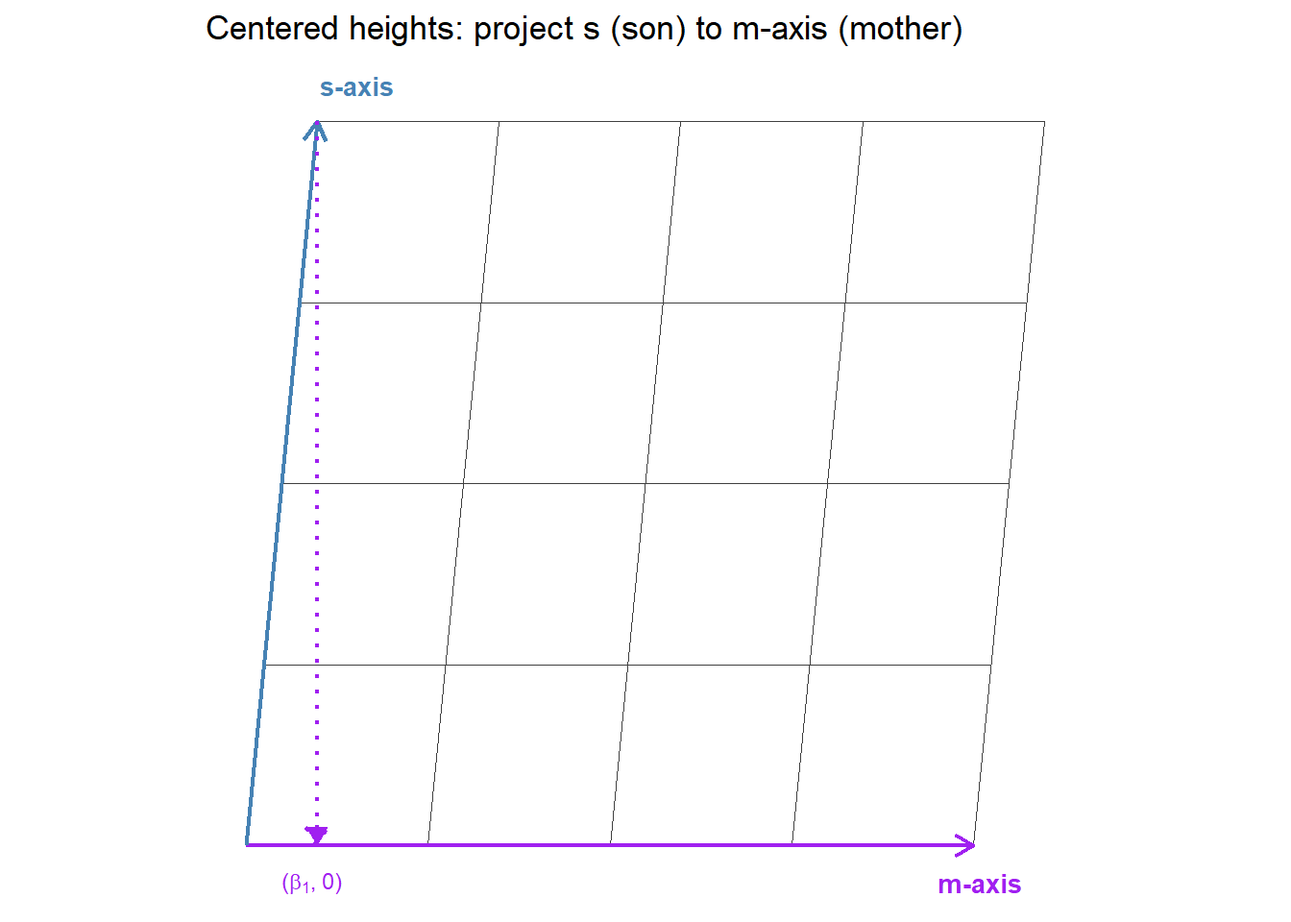
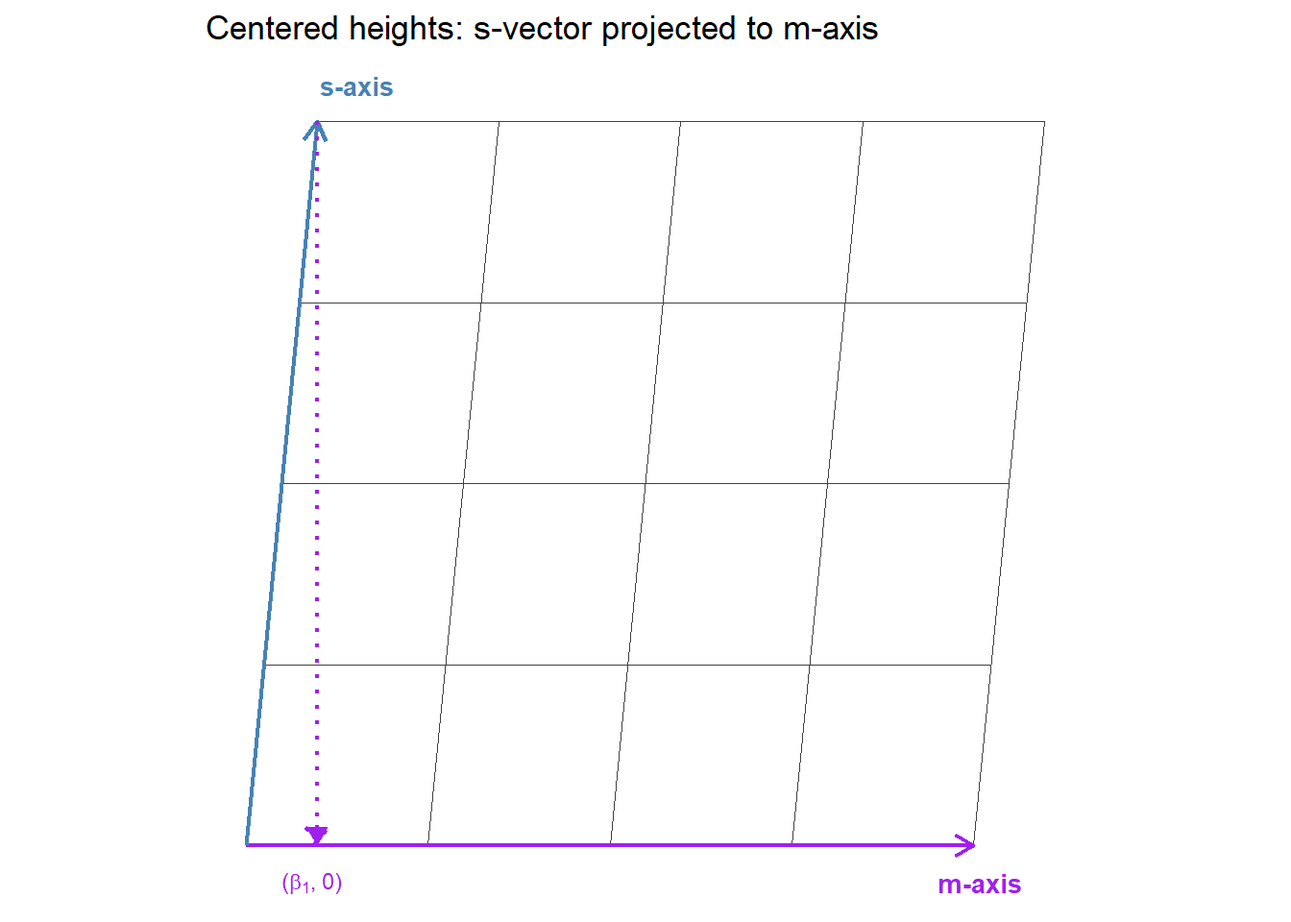
la-intro.qmd: (1) Notation: adopt the terms span(f_1, ..., f_d) or equivalently col(X); (2) Orthogonal Projections: for the height data use (mother, father, son) notation rather than the generic (X, y) notation; and (3) Col v Row Viz:  in the 2D son ~ mother regression figure, show the residuals as 

Changed region(s): [[0.375, 0.0, 0.75, 0.0625]]

diff --git a/_book/la-intro.html b/_book/la-intro.html
@@ -403,7 +403,7 @@ window.Quarto = {
     <div>
     <div class="quarto-title-meta-heading">Published</div>
     <div class="quarto-title-meta-contents">
-      <p class="date">00:59 Fri 31-Oct-2025</p>
+      <p class="date">11:53 Fri 31-Oct-2025</p>
     </div>
   </div>
   
@@ -1053,25 +1053,26 @@ Figure&nbsp;6.3: Example images of handwritten digits from the MNIST dataset
   \epsilon &amp;= \text{an } \textit{error} \text{ or } \textit{residual} \text{ term}
 \end{align}
 \qquad(6.20)\]</span></span></p>
-<p>Here’s the linear regression problem in matrix format for a given data set of specified dimensions.</p>
+<p>Here’s the linear regression model in matrix format for a given feature matrix of specified dimensions.</p>
 <p><span id="eq-generic-lm-mat"><span class="math display">\[
 \begin{align}
   y_\bullet &amp;= X_{\bullet, \bullet} \; \beta_\bullet \; + \; \epsilon_\bullet
 \end{align}
 \qquad(6.21)\]</span></span></p>
-<p>Let <span class="math inline">\(n\)</span> denote the number of observations (data cases), in other words the number of rows in feature matrix <span class="math inline">\(X_{\bullet, \bullet}\)</span> and in the column vectors <span class="math inline">\((y_\bullet, \epsilon_\bullet)\)</span>. And let <span class="math inline">\(d\)</span> denote the number of columns in <span class="math inline">\(X_{\bullet, \bullet}\)</span> and the number of rows in column-vector <span class="math inline">\(\beta_\bullet\)</span>. Let us also delineate the columns of <span class="math inline">\(X_{\bullet, \bullet}\)</span>, the “feature vectors”, as follows.</p>
+<p>Let the dimensions of <span class="math inline">\(X_{\bullet, \bullet}\)</span> be given as <span class="math inline">\(n\)</span> rows by <span class="math inline">\(d\)</span> columns. Then the column vectors <span class="math inline">\((y_\bullet, \epsilon_\bullet)\)</span> are each of length <span class="math inline">\(n\)</span>, and the number of rows in column-vector <span class="math inline">\(\beta_\bullet\)</span> is <span class="math inline">\(d\)</span>. Let us also delineate the columns of <span class="math inline">\(X_{\bullet, \bullet}\)</span>, the “feature vectors”, as follows.</p>
 <p><span id="eq-generic-feature-cols"><span class="math display">\[
 \begin{align}
   X_{\bullet, \bullet} &amp;= \left ( f_{1, \bullet}, \ldots, f_{d, \bullet} \right )
 \end{align}
 \qquad(6.22)\]</span></span></p>
-<p>The feature vectors <span class="math inline">\(\{ f_{k, \bullet} \}_{k = 1}^d\)</span> span some subspace, “feature space”, within <span class="math inline">\(n-\)</span>space. Thus the mapping <span class="math inline">\(\beta_\bullet \mapsto X_{\bullet, \bullet} \; \beta_\bullet\)</span> sends a vector of coefficients <span class="math inline">\(\beta_\bullet\)</span> to the following linear combination within the feature subspace.</p>
+<p>The <span class="math inline">\(n-\)</span>dimensional feature vectors <span class="math inline">\(\{ f_{k, \bullet} \}_{k = 1}^d\)</span> span a subspace, “feature space”, within <span class="math inline">\(n-\)</span>space, denoted <span class="math inline">\(span(f_{1, \bullet}, \ldots, f_{d, \bullet})\)</span>. Since this is the subspace generated by the columns of matrix <span class="math inline">\(X_{\bullet, \bullet}\)</span>, the subspace is also denoted as <span class="math inline">\(col(X_{\bullet, \bullet})\)</span>. <a href="#fn10" class="footnote-ref" id="fnref10" role="doc-noteref"><sup>10</sup></a></p>
+<p>The mapping <span class="math inline">\(\beta_\bullet \mapsto X_{\bullet, \bullet} \; \beta_\bullet\)</span> sends a vector of coefficients <span class="math inline">\(\beta_\bullet\)</span> to the following linear combination within the feature subspace.</p>
 <p><span id="eq-generic-feature-lin-combo"><span class="math display">\[
 \begin{align}
-  \beta_1 \; f_{1, \bullet} \; + \; \cdots \; + \; \beta_d \; f_{d, \bullet}
+  X_{\bullet, \bullet} \; \beta_\bullet &amp;=\beta_1 \; f_{1, \bullet} \; + \; \cdots \; + \; \beta_d \; f_{d, \bullet}
 \end{align}
 \qquad(6.23)\]</span></span></p>
-<p>As for the dimension of the feature subspace, it can be no greater than <span class="math inline">\(n\)</span>, the dimension of the space containing each feature vector, nor can it be greater than <span class="math inline">\(d\)</span>, the number of feature vectors. If the feature vectors are linearly independent (as they typically are) then this subspace is of dimension <span class="math inline">\(d\)</span>. If the feature vectors are not linearly independent (for example, if <span class="math inline">\(d &gt; n\)</span>) then the feature subspace is of some smaller dimension.</p>
+<p>The dimension of the feature subspace is called the <em>rank</em> of <span class="math inline">\(X_{\bullet, \bullet}\)</span>, denoted <span class="math inline">\(rank(X_{\bullet, \bullet})\)</span>. The rank can be no greater than <span class="math inline">\(n\)</span>, the dimension of the space containing each feature vector, nor can it be greater than <span class="math inline">\(d\)</span>, the number of feature vectors. If the feature vectors are linearly independent then this subspace is of dimension <span class="math inline">\(d\)</span>. If the feature vectors are not linearly independent (for example, if <span class="math inline">\(d &gt; n\)</span>) then the feature subspace is of some smaller dimension.</p>
 <p>This linear regression format follows the more general mathematical notation <span class="math inline">\(y = f(x)\)</span>. In data science and machine learning, however, the response variable <span class="math inline">\(y\)</span> and the feature matrix <span class="math inline">\(X\)</span> have known values, whereas <span class="math inline">\(\beta\)</span> and <span class="math inline">\(\epsilon\)</span> are <em>fit</em> (determined or evaluated based on <span class="math inline">\(y\)</span> and <span class="math inline">\(X\)</span>) over the course of the modeling process.</p>
 <p>In the data examples of the preceding section, the response variable took the following form.</p>
 <ul>
@@ -1173,7 +1174,7 @@ Figure&nbsp;6.3: Example images of handwritten digits from the MNIST dataset
   \delta (m_1, m_3) &amp;\le \delta (m_1, m_2) \; + \; \delta (m_2, m_3)
 \end{align}
 \qquad(6.33)\]</span></span></p>
-<p>Hamming distance and Levenshtein distance are important examples of metrics used in natural language processing (NLP) that are not based on a vector norm. <a href="#fn10" class="footnote-ref" id="fnref10" role="doc-noteref"><sup>10</sup></a></p>
+<p>Hamming distance and Levenshtein distance are important examples of metrics used in natural language processing (NLP) that are not based on a vector norm. <a href="#fn11" class="footnote-ref" id="fnref11" role="doc-noteref"><sup>11</sup></a></p>
 </section>
 </section>
 <section id="family-heights" class="level3" data-number="6.3.2">
@@ -1200,7 +1201,7 @@ Figure&nbsp;6.3: Example images of handwritten digits from the MNIST dataset
   \epsilon_\bullet &amp;= \text{residual vector}
 \end{align}
 \qquad(6.35)\]</span></span></p>
-<p>Consider the least-squares estimate <span class="math inline">\(\hat{\beta}_\bullet\)</span> and the consequent predicted height <span class="math inline">\(\hat{y}_\bullet = X_{_\bullet, _\bullet} \hat{\beta}_\bullet\)</span> of the son. <a href="#fig-smf-smpl" class="quarto-xref">Figure&nbsp;<span>6.4</span></a> is based on a random sample of 20 families and shows the heights of sons on the vertical axis, along with their vertical displacement (residual) from the predicted value lying on the <em>regression plane</em>. <a href="#fn11" class="footnote-ref" id="fnref11" role="doc-noteref"><sup>11</sup></a></p>
+<p>Consider the least-squares estimate <span class="math inline">\(\hat{\beta}_\bullet\)</span> and the consequent predicted height <span class="math inline">\(\hat{y}_\bullet = X_{_\bullet, _\bullet} \hat{\beta}_\bullet\)</span> of the son. <a href="#fig-smf-smpl" class="quarto-xref">Figure&nbsp;<span>6.4</span></a> is based on a random sample of 20 families and shows the heights of sons on the vertical axis, along with their vertical displacement (residual) from the predicted value lying on the <em>regression plane</em>. <a href="#fn12" class="footnote-ref" id="fnref12" role="doc-noteref"><sup>12</sup></a></p>
 <div class="cell">
 <div class="cell-output-display">
 <div id="fig-smf-smpl" class="quarto-float quarto-figure quarto-figure-center anchored">
@@ -1220,7 +1221,7 @@ Figure&nbsp;6.4: Sampled son heights: residual = observed - predicted
 </section>
 <section id="centering-data-vectors" class="level3" data-number="6.3.3">
 <h3 data-number="6.3.3" class="anchored" data-anchor-id="centering-data-vectors"><span class="header-section-number">6.3.3</span> Centering Data Vectors</h3>
-<p>The regression plane that we glimpse in <a href="#fig-smf-smpl" class="quarto-xref">Figure&nbsp;<span>6.4</span></a> actually spans all the <span class="math inline">\((m, f)\)</span> combinations that are mathematically possible. If we imagine infinitesimally short parents with <span class="math inline">\((m, f) = (0, 0)\)</span>, the predicted height of their son would be <span class="math inline">\(\hat{\beta}_0\)</span>, which is not zero. That is, the plane does not pass through the origin <span class="math inline">\((0, 0, 0)\)</span> and therefore does not qualify as a subspace of <span class="math inline">\((m, f, s)\)</span> space. <a href="#fn12" class="footnote-ref" id="fnref12" role="doc-noteref"><sup>12</sup></a> But the regression plane determines a parallel subspace (that <em>does</em> pass through the origin).</p>
+<p>The regression plane that we glimpse in <a href="#fig-smf-smpl" class="quarto-xref">Figure&nbsp;<span>6.4</span></a> actually spans all the <span class="math inline">\((m, f)\)</span> combinations that are mathematically possible. If we imagine infinitesimally short parents with <span class="math inline">\((m, f) = (0, 0)\)</span>, the predicted height of their son would be <span class="math inline">\(\hat{\beta}_0\)</span>, which is not zero. That is, the plane does not pass through the origin <span class="math inline">\((0, 0, 0)\)</span> and therefore does not qualify as a subspace of <span class="math inline">\((m, f, s)\)</span> space. <a href="#fn13" class="footnote-ref" id="fnref13" role="doc-noteref"><sup>13</sup></a> But the regression plane determines a parallel subspace (that <em>does</em> pass through the origin).</p>
 <p>The concept of a subspace is central to linear algebra. Therefore determining the subspace parallel to the regression plane will enable us to apply linear algebra methods to better understand linear regression.</p>
 <p>One way to generate this subspace is to center each of the <span class="math inline">\((m_i, f_i, s_i)\)</span> data values, that is, to replace data value <span class="math inline">\(v_i\)</span> with its centered version <span class="math inline">\(\dot{v}_i = v_i - \bar{v}\)</span>, where <span class="math inline">\(\bar{v}\)</span> denotes the average value (arithmetic mean) of vector <span class="math inline">\(v_\bullet\)</span>.</p>
 <p>In vector-matrix notation we have</p>
@@ -1347,7 +1348,7 @@ Figure&nbsp;6.5: Centered family heights
   &amp;= X_{\bullet, \bullet}^\top \; y_\bullet
 \end{align}
 \qquad(6.45)\]</span></span></p>
-<p>On the left side of the normal equations we have the matrix factor <span class="math inline">\(\left ( X_{\bullet, \bullet}^\top X_{\bullet, \bullet}  \right )\)</span>. For the centered heights data this matrix factor is a multiple of the (mother, father) covariance matrix, a <span class="math inline">\(2 \times 2\)</span> positive-definite matrix, and thus an invertible matrix. Assuming this matrix factor to be invertible, we can solve for <span class="math inline">\(\hat{\beta}_\bullet\)</span> as follows.</p>
+<p>On the left side of the normal equations we have the matrix factor <span class="math inline">\(\left ( X_{\bullet, \bullet}^\top X_{\bullet, \bullet}  \right )\)</span>. For the centered heights data this matrix factor is proportional to the (mother, father) covariance matrix, a <span class="math inline">\(2 \times 2\)</span> positive-definite matrix, and thus an invertible matrix. If this matrix factor is invertible, one can solve for <span class="math inline">\(\hat{\beta}_\bullet\)</span> as follows.</p>
 <p><span id="eq-generic-lm-beta-hat"><span class="math display">\[
 \begin{align}
   \hat{\beta}_\bullet
@@ -1365,21 +1366,20 @@ Figure&nbsp;6.5: Centered family heights
 </section>
 <section id="orthogonal-projections" class="level3" data-number="6.3.5">
 <h3 data-number="6.3.5" class="anchored" data-anchor-id="orthogonal-projections"><span class="header-section-number">6.3.5</span> Orthogonal Projections</h3>
-<p>For any value of the coefficient vector <span class="math inline">\(\beta_\bullet\)</span>, the mapping <span class="math inline">\(\beta_\bullet \mapsto X_{\bullet, \bullet} \beta_\bullet\)</span> sends <span class="math inline">\(\beta_\bullet\)</span> to the linear combination <span class="math inline">\(\beta_1 \; \dot{m}_\bullet \; + \; \beta_2 \; \dot{f}_\bullet\)</span>, which belongs to a 2-dimensional subspace of <span class="math inline">\(n-\)</span>space <a href="#fn13" class="footnote-ref" id="fnref13" role="doc-noteref"><sup>13</sup></a>, where <span class="math inline">\(n\)</span> denotes the number of data cases, i.e., the row dimension of <span class="math inline">\(X_{\bullet, \bullet}\)</span>. This 2-dimensional subspace (let’s say the “parental” subspace) is spanned by the two <span class="math inline">\(n-\)</span>vectors <span class="math inline">\((\dot{m}_\bullet, \dot{f}_\bullet)\)</span>, the centered vectors of (mother, father) heights.</p>
-<p>The particular coefficient vector <span class="math inline">\(\hat{\beta}_\bullet\)</span> obtained by least squares linear regression produces the linear mapping of <a href="#eq-generic-lm-y-hat" class="quarto-xref">Equation&nbsp;<span>6.47</span></a>:</p>
+<p>As previously noted (<a href="#eq-generic-feature-lin-combo" class="quarto-xref">Equation&nbsp;<span>6.23</span></a>), the mapping <span class="math inline">\(\beta_\bullet \mapsto X_{\bullet, \bullet} \beta_\bullet\)</span> sends coefficient vector <span class="math inline">\(\beta_\bullet\)</span> to a linear combination of the feature vectors, and thus a vector within the feature subspace. The particular coefficient vector <span class="math inline">\(\hat{\beta}_\bullet\)</span> obtained by least squares linear regression produces the linear mapping of <a href="#eq-generic-lm-y-hat" class="quarto-xref">Equation&nbsp;<span>6.47</span></a>:</p>
 <p><span id="eq-lin-reg-projection"><span class="math display">\[
 \begin{align}
   \hat{y}_\bullet &amp;= P \; y_\bullet
 \end{align}
 \qquad(6.48)\]</span></span></p>
-<p>For the centered heights data, this mapping sends the centered heights of sons <span class="math inline">\(\dot{s}_\bullet\)</span> to their corresponding linear prediction <span class="math inline">\(\hat{\dot{s}}_\bullet = P \; \dot{s}_\bullet\)</span>. For the generic regression problem <span class="math inline">\(P\)</span> is the following matrix.</p>
+<p>where <span class="math inline">\(P\)</span> is the following matrix.</p>
 <p><span id="eq-lin-reg-projection-mat"><span class="math display">\[
 \begin{align}
   P
   &amp;= X_{\bullet, \bullet} \left ( X_{\bullet, \bullet}^\top X_{\bullet, \bullet}  \right )^{-1} X_{\bullet, \bullet}^\top
 \end{align}
 \qquad(6.49)\]</span></span></p>
-<p>Matrix <span class="math inline">\(P\)</span> is idempotent and symmetric, that is, both the square <span class="math inline">\(P^2\)</span> and the transpose <span class="math inline">\(P^\top\)</span> equal <span class="math inline">\(P\)</span>.</p>
+<p>Matrix <span class="math inline">\(P\)</span> is idempotent and symmetric, that is, both its square <span class="math inline">\(P^2\)</span> and its transpose <span class="math inline">\(P^\top\)</span> equal <span class="math inline">\(P\)</span> itself.</p>
 <p><span id="eq-projection-properties"><span class="math display">\[
 \begin{align}
   P^2
@@ -1395,8 +1395,8 @@ Figure&nbsp;6.5: Centered family heights
 \qquad(6.50)\]</span></span></p>
 <p>If matrix <span class="math inline">\(M\)</span> is idempotent, that is, if <span class="math inline">\(M^2 = M\)</span>, then <span class="math inline">\(M\)</span> represents a <em>projection</em>. Repeated applications of <span class="math inline">\(M\)</span> to vector <span class="math inline">\(v\)</span> return the initial application, i.e., <span class="math inline">\(M^k v = Mv\)</span> for any positive integer <span class="math inline">\(k\)</span>.</p>
 <p>If in addition matrix <span class="math inline">\(M\)</span> is symmetric, that is, if <span class="math inline">\(M^\top = M\)</span>, then <span class="math inline">\(M\)</span> represents an <em>orthogonal projection</em>. In this case the complement of <span class="math inline">\(M\)</span>, <span class="math inline">\(I - M\)</span>, also qualifies as an orthogonal projection and the product of the two matrices is the zero matrix.</p>
-<p>Consequently, any vector <span class="math inline">\(v\)</span> can be expressed as the sum of two vectors <span class="math inline">\(v = x + y\)</span>, with <span class="math inline">\(x = M v\)</span> and <span class="math inline">\(y = (I-M) v\)</span>. Vector <span class="math inline">\(x\)</span> belongs to the subspace generated by <span class="math inline">\(M\)</span>, which is called the <em>range</em> of <span class="math inline">\(M\)</span>, denoted as <span class="math inline">\(\mathcal{R} (M)\)</span>. Similarly <span class="math inline">\(y \in \mathcal{R} (I - M)\)</span>. Moreover, these two vectors are orthogonal: <span class="math inline">\((x^\top y = y^\top x = 0)\)</span>. That is, subspace <span class="math inline">\(\mathcal{R} (I - M)\)</span> is the orthogonal complement of subspace <span class="math inline">\(\mathcal{R} (M)\)</span>.</p>
-<p>Let’s apply these ideas to matrix <span class="math inline">\(P\)</span>. First, we have shown that matrix <span class="math inline">\(P\)</span> represents an orthogonal projection. On closer inspection, we can show that the subspace generated by <span class="math inline">\(P\)</span>, <span class="math inline">\(\mathcal{R} (P)\)</span>, is the parental subspace. That is, for any vector <span class="math inline">\(v_\bullet\)</span> we have:</p>
+<p>Consequently, any vector <span class="math inline">\(v\)</span> can be expressed as the sum of two vectors <span class="math inline">\(v = x + y\)</span>, with <span class="math inline">\(x = M v\)</span> and <span class="math inline">\(y = (I-M) v\)</span>. Vector <span class="math inline">\(x\)</span> belongs to the subspace spanned by the columns of <span class="math inline">\(M\)</span>, which is called the <em>image</em> or <em>column-space</em> of <span class="math inline">\(M\)</span>, denoted as <span class="math inline">\(col (M)\)</span>. Similarly <span class="math inline">\(y \in col (I - M)\)</span>. Moreover, these two vectors are orthogonal: <span class="math inline">\((x^\top y = y^\top x = 0)\)</span>. That is, subspace <span class="math inline">\(col (I - M)\)</span> is the orthogonal complement of subspace <span class="math inline">\(col (M)\)</span>.</p>
+<p>Let’s apply these ideas to matrix <span class="math inline">\(P\)</span>. First, we have shown that matrix <span class="math inline">\(P\)</span> represents an orthogonal projection. On closer inspection, we can show that the subspace generated by <span class="math inline">\(P\)</span>, <span class="math inline">\(col (P)\)</span>, is the feature subspace. That is, for any vector <span class="math inline">\(v_\bullet\)</span> we have:</p>
 <p><span id="eq-parental-projection"><span class="math display">\[
 \begin{align}
   P \; v_\bullet &amp;= X_{\bullet, \bullet} \left ( X_{\bullet, \bullet}^\top X_{\bullet, \bullet}  \right )^{-1} X_{\bullet, \bullet}^\top \; v_\bullet \\
@@ -1410,7 +1410,7 @@ Figure&nbsp;6.5: Centered family heights
   &amp;= X_{\bullet, \bullet} \; \gamma_\bullet (v_\bullet)
 \end{align}
 \qquad(6.51)\]</span></span></p>
-<p>That is, for any vector <span class="math inline">\(v_\bullet\)</span> in <span class="math inline">\(n-\)</span>space, <span class="math inline">\(P\)</span> sends <span class="math inline">\(v_\bullet\)</span> to an <span class="math inline">\(n-\)</span>vector of the form <span class="math inline">\(X_{\bullet, \bullet} \; \gamma_\bullet\)</span>, which is a linear combination of <span class="math inline">\((\dot{m}_\bullet, \dot{f}_\bullet)\)</span> and thus belongs to the parental subspace.</p>
+<p>That is, for any vector <span class="math inline">\(v_\bullet\)</span> in <span class="math inline">\(n-\)</span>space, <span class="math inline">\(P\)</span> sends <span class="math inline">\(v_\bullet\)</span> to an <span class="math inline">\(n-\)</span>vector of the form <span class="math inline">\(X_{\bullet, \bullet} \; \gamma_\bullet\)</span>, which belongs to the feature subspace.</p>
 <p>This means that the respective vectors of predicted response values <span class="math inline">\(\hat{y_\bullet}\)</span> and their residuals <span class="math inline">\(\hat{\epsilon}_\bullet\)</span> are mutually orthogonal.</p>
 <p><span id="eq-resid-predicted-ortho"><span class="math display">\[
 \begin{align}
@@ -1424,40 +1424,40 @@ Figure&nbsp;6.5: Centered family heights
   &amp;= 0
 \end{align}
 \qquad(6.52)\]</span></span></p>
-<p>Now let <span class="math inline">\(p_\bullet\)</span> be any vector in the parental space. Then <span class="math inline">\(p_\bullet\)</span> is some linear combination of the parental vectors <span class="math inline">\((\dot{m}_\bullet, \dot{f}_\bullet)\)</span> and therefore can be represented as <span class="math inline">\(p_\bullet = X_{\bullet, \bullet} \gamma_\bullet\)</span> for some coefficient vector <span class="math inline">\(\gamma_\bullet = (\gamma_1, \gamma_2)^\top\)</span>. It now follows the <span class="math inline">\(P \; p_\bullet = p_\bullet\)</span>:</p>
+<p>Now let <span class="math inline">\(\phi_\bullet\)</span> be any vector in feature space. Then <span class="math inline">\(\phi_\bullet\)</span> is some linear combination of the feature vectors and therefore can be represented as <span class="math inline">\(\phi_\bullet = X_{\bullet, \bullet} \gamma_\bullet\)</span> for some coefficient vector <span class="math inline">\(\gamma_\bullet\)</span>. It now follows the <span class="math inline">\(P \; \phi_\bullet = \phi_\bullet\)</span>:</p>
 <p><span id="eq-subspace-invariance"><span class="math display">\[
 \begin{align}
-  P \; p_\bullet &amp;= P \; (X_{\bullet, \bullet} \gamma_\bullet) \\
+  P \; \phi_\bullet &amp;= P \; (X_{\bullet, \bullet} \gamma_\bullet) \\
   &amp;= X_{\bullet, \bullet} \left ( X_{\bullet, \bullet}^\top X_{\bullet, \bullet}  \right )^{-1} X_{\bullet, \bullet}^\top \;  (X_{\bullet, \bullet} \gamma_\bullet) \\
   &amp;= X_{\bullet, \bullet} \left ( X_{\bullet, \bullet}^\top X_{\bullet, \bullet}  \right )^{-1} \left ( X_{\bullet, \bullet}^\top \;  X_{\bullet, \bullet} \right ) \gamma_\bullet \\
   &amp;= X_{\bullet, \bullet} \gamma_\bullet \\
-  &amp;= p_\bullet
+  &amp;= \phi_\bullet
 \end{align}
 \qquad(6.53)\]</span></span></p>
-<p>Consequently, the residual vector <span class="math inline">\(\hat{\epsilon}_\bullet\)</span> is orthogonal to any vector <span class="math inline">\(p_\bullet = X_{\bullet, \bullet} \gamma_\bullet\)</span> in the parental subspace:</p>
+<p>Consequently, the residual vector <span class="math inline">\(\hat{\epsilon}_\bullet\)</span> is orthogonal to any vector <span class="math inline">\(\phi_\bullet = X_{\bullet, \bullet} \gamma_\bullet\)</span> in the feature subspace:</p>
 <p><span id="eq-resid-mf-ortho"><span class="math display">\[
 \begin{align}
-  \hat{\epsilon}_\bullet^\top \; p_\bullet &amp;= \dot{y}_\bullet^\top \; (I - P)^\top p_\bullet \\
-  &amp;= \dot{y}_\bullet^\top \; (I - P) \; p_\bullet \\
+  \hat{\epsilon}_\bullet^\top \; \phi_\bullet &amp;= \dot{y}_\bullet^\top \; (I - P)^\top \phi_\bullet \\
+  &amp;= \dot{y}_\bullet^\top \; (I - P) \; \phi_\bullet \\
   &amp;= \dot{y}_\bullet^\top \; 0_\bullet \\
   &amp;= 0
 \end{align}
 \qquad(6.54)\]</span></span></p>
-<p>It now follows that of all vectors <span class="math inline">\(p_\bullet = X_{\bullet, \bullet} \gamma_\bullet\)</span> in the feature subspace, the predicted vector <span class="math inline">\(\hat{y}_\bullet\)</span> is closest to the given vector <span class="math inline">\(y_\bullet\)</span>:</p>
+<p>It now follows that of all vectors <span class="math inline">\(\phi_\bullet = X_{\bullet, \bullet} \gamma_\bullet\)</span> in the feature subspace, the predicted vector <span class="math inline">\(\hat{y}_\bullet\)</span> is closest to the given vector <span class="math inline">\(y_\bullet\)</span>:</p>
 <p><span id="eq-lin-reg-min-distance"><span class="math display">\[
 \begin{align}
-  \lVert \dot{y_\bullet} - p_\bullet \rVert^2
-  &amp;= \lVert (\dot{y_\bullet} - \hat{y}_\bullet) + (\hat{y}_\bullet - p_\bullet) \rVert^2  \\
-  &amp;= \lVert \hat{\epsilon}_\bullet + (\hat{y}_\bullet - p_\bullet) \rVert^2 \\
-  &amp;= \left ( \hat{\epsilon}_\bullet + (\hat{y}_\bullet - p_\bullet) \right )^\top
-  \left ( \hat{\epsilon}_\bullet + (\hat{y}_\bullet - p_\bullet) \right ) \\
-  &amp;= \hat{\epsilon}_\bullet^\top \hat{\epsilon}_\bullet \; + \; 0 \; + \; 0 \; + \; (\hat{y}_\bullet - p_\bullet)^\top (\hat{y}_\bullet - p_\bullet) \\
-  &amp;= \lVert \hat{\epsilon}_\bullet \rVert^2 \; + \; \lVert \hat{y}_\bullet - p_\bullet \rVert^2 \\
+  \lVert y_\bullet - \phi_\bullet \rVert^2
+  &amp;= \lVert (y_\bullet - \hat{y}_\bullet) + (\hat{y}_\bullet - \phi_\bullet) \rVert^2  \\
+  &amp;= \lVert \hat{\epsilon}_\bullet + (\hat{y}_\bullet - \phi_\bullet) \rVert^2 \\
+  &amp;= \left ( \hat{\epsilon}_\bullet + (\hat{y}_\bullet - \phi_\bullet) \right )^\top
+  \left ( \hat{\epsilon}_\bullet + (\hat{y}_\bullet - \phi_\bullet) \right ) \\
+  &amp;= \hat{\epsilon}_\bullet^\top \hat{\epsilon}_\bullet \; + \; 0 \; + \; 0 \; + \; (\hat{y}_\bullet - \phi_\bullet)^\top (\hat{y}_\bullet - \phi_\bullet) \\
+  &amp;= \lVert \hat{\epsilon}_\bullet \rVert^2 \; + \; \lVert \hat{y}_\bullet - \phi_\bullet \rVert^2 \\
   &amp;\ge \lVert \hat{\epsilon}_\bullet \rVert^2 \\
-  &amp;= \lVert \dot{y_\bullet} - \hat{y}_\bullet \rVert^2
+  &amp;= \lVert y_\bullet - \hat{y}_\bullet \rVert^2
 \end{align}
 \qquad(6.55)\]</span></span></p>
-<p>There is one more point worth noting here. Suppose <span class="math inline">\(X_{\bullet, \bullet}\)</span> consisted of just a single column, say <span class="math inline">\(\dot{m}_\bullet\)</span>.</p>
+<p>There is one more point worth noting here. Suppose <span class="math inline">\(X_{\bullet, \bullet}\)</span> consisted of just a single column, say <span class="math inline">\(\dot{m}_\bullet\)</span>, the centered heights of mothers.</p>
 <p><span id="eq-1D-cov-mat"><span class="math display">\[
 \begin{align}
   X_{\bullet, \bullet} &amp;= \dot{m}_\bullet \\ \\
@@ -1482,16 +1482,8 @@ Figure&nbsp;6.5: Centered family heights
   \lVert u_\bullet \rVert &amp;= 1
 \end{align}
 \qquad(6.57)\]</span></span></p>
-<p>To summarize,</p>
-<ul>
-<li>The parental centered heights <span class="math inline">\((\dot{m}_\bullet, \dot{f}_\bullet)\)</span> constitute a basis of the 2-dimensional subspace (the “parental” subspace) that they span within <span class="math inline">\(n-\)</span>space.</li>
-<li>Matrix <span class="math inline">\(P\)</span> sends the vector <span class="math inline">\(\dot{y}_\bullet\)</span> of sons’ centered heights to prediction vector <span class="math inline">\(\hat{\dot{y}_\bullet}\)</span>.</li>
-<li><span class="math inline">\(P\)</span> is the orthogonal projection of <span class="math inline">\(n-\)</span>space onto the parental subspace.</li>
-<li>Moreover, <span class="math inline">\((\hat{\beta}_1, \hat{\beta}_2)\)</span> are the coordinates of the prediction vector in this subspace with respect to the parental basis.</li>
-<li>The formula for <span class="math inline">\(P\)</span> generalizes the 1-dimensional projection <span class="math inline">\(u_\bullet \; u_\bullet^\top\)</span> where <span class="math inline">\(u_\bullet\)</span> is a <em>unit vector</em>, that is where <span class="math inline">\(\lVert u_\bullet \rVert = 1\)</span></li>
-<li>Of all the vectors in the parental subspace, the prediction vector <span class="math inline">\(\hat{\dot{y}_\bullet} = P \; \dot{y}_\bullet\)</span> is the closest (in Euclidean distance) to the given vector <span class="math inline">\(\dot{y}_\bullet\)</span>.</li>
-</ul>
-<p><a href="#fig-smf-smpl-ctr" class="quarto-xref">Figure&nbsp;<span>6.5</span></a> above shows the result of projecting the centered sons’ heights to their predicted values in the parental plane. Each point in that figure represents an individual family, which corresponds to a single row of the centered feature matrix <span class="math inline">\(X_{\bullet, \bullet}\)</span>. In the next section we introduce a different perspective on linear regression, namely a column-based view.</p>
+<p>That is, projection matrix <span class="math inline">\(P\)</span> can take the form of a 1-dimensional projection <span class="math inline">\(u \; u^\top\)</span> onto multiples of unit vector <span class="math inline">\(u\)</span>, and generalizes such 1-dimensional projections when the feature space is of a higher dimension.</p>
+<p><a href="#fig-smf-smpl-ctr" class="quarto-xref">Figure&nbsp;<span>6.5</span></a> above shows the result of projecting the centered sons’ heights to their predicted values in the parental plane (feature space). Each point in that figure represents an individual family, which corresponds to a single row of the centered feature matrix <span class="math inline">\((\dot{m}_\bullet, \dot{f}_\bullet)\)</span>. In the next section we introduce a different perspective on linear regression, namely a column-based view.</p>
 </section>
 </section>
 <section id="column-versus-row-visualization" class="level2" data-number="6.4">
@@ -1506,14 +1498,14 @@ Figure&nbsp;6.5: Centered family heights
   &amp;= \frac{\dot{m}_\bullet^\top \; \dot{y}}{\lVert \dot{m}_\bullet \rVert^2} \\
   &amp;= \hat{\beta}_1 \\ \\
   \text{so that} \\ \\
-  \hat{\dot{y}} &amp;= P \; \dot{y} \\
+  \hat{\dot{s}} &amp;= P \; \dot{s} \\
   &amp;= \left ( \frac{\dot{m}_\bullet}{\lVert \dot{m}_\bullet \rVert} \right )
-     \left ( \frac{\dot{m}_\bullet}{\lVert \dot{m}_\bullet \rVert} \right )^\top \; \dot{y} \\
-  &amp;= \frac{\dot{m}_\bullet^\top \; \dot{y}}{\lVert \dot{m}_\bullet \rVert^2} \; \dot{m}_\bullet \\
+     \left ( \frac{\dot{m}_\bullet}{\lVert \dot{m}_\bullet \rVert} \right )^\top \; \dot{s} \\
+  &amp;= \frac{\dot{m}_\bullet^\top \; \dot{s}}{\lVert \dot{m}_\bullet \rVert^2} \; \dot{m}_\bullet \\
   &amp;= \hat{\beta}_1 \; \dot{m}_\bullet
 \end{align}
 \qquad(6.58)\]</span></span></p>
-<p><a href="#fig-gg-sm-smpl-ctr" class="quarto-xref">Figure&nbsp;<span>6.6</span></a> shows this projection from <span class="math inline">\(\dot{y}_\bullet\)</span> (that is, <span class="math inline">\(\dot{s}_\bullet\)</span>) to the one-dimensional space spanned by <span class="math inline">\(\dot{m}_\bullet\)</span>.</p>
+<p><a href="#fig-gg-sm-smpl-ctr" class="quarto-xref">Figure&nbsp;<span>6.6</span></a> shows this projection from <span class="math inline">\(\dot{s}_\bullet\)</span>) to the one-dimensional space spanned by <span class="math inline">\(\dot{m}_\bullet\)</span>.</p>
 <div class="cell">
 <div class="cell-output-display">
 <div id="fig-gg-sm-smpl-ctr" class="quarto-float quarto-figure quarto-figure-center anchored">
@@ -1522,7 +1514,7 @@ Figure&nbsp;6.5: Centered family heights
 <img src="la-intro_files/figure-html/fig-gg-sm-smpl-ctr-1.png" class="img-fluid figure-img" width="672">
 </div>
 <figcaption class="quarto-float-caption-bottom quarto-float-caption quarto-float-fig" id="fig-gg-sm-smpl-ctr-caption-0ceaefa1-69ba-4598-a22c-09a6ac19f8ca">
-Figure&nbsp;6.6: Centered heights: project s-vector (son) to m-axis (mother)
+Figure&nbsp;6.6: Centered heights: s-vector (sons) projected to to m-axis (mothers)
 </figcaption>
 </figure>
 </div>
@@ -1535,7 +1527,7 @@ Figure&nbsp;6.6: Centered heights: project s-vector (son) to m-axis (mother)
 \end{align}
 \qquad(6.59)\]</span></span></p>
 <p>Then <span class="math inline">\(v\)</span> has coordinates <span class="math inline">\((\sigma, \mu)\)</span> with respect to the <span class="math inline">\(( \dot{m}_\bullet, \dot{s}_\bullet )\)</span> basis.</p>
-<p>Consequently the coordinates of vectors <span class="math inline">\(\dot{m}_\bullet\)</span>, <span class="math inline">\(\dot{s}_\bullet\)</span>, and <span class="math inline">\(\hat{\dot{y}}_\bullet\)</span> are respectively <span class="math inline">\((1, 0)\)</span>, <span class="math inline">\((0, 1)\)</span>, and <span class="math inline">\((\hat{\beta}_1, 0)\)</span>.</p>
+<p>Consequently the coordinates of vectors <span class="math inline">\(\dot{m}_\bullet\)</span>, <span class="math inline">\(\dot{s}_\bullet\)</span>, and <span class="math inline">\(\hat{\dot{s}}_\bullet\)</span> are respectively <span class="math inline">\((1, 0)\)</span>, <span class="math inline">\((0, 1)\)</span>, and <span class="math inline">\((\hat{\beta}_1, 0)\)</span>.</p>
 <p>Note that the <span class="math inline">\(\dot{s}_\bullet\)</span> axis is not quite perpendicular to the <span class="math inline">\(\dot{m}_\bullet\)</span> axis. That is because the two vectors are not orthogonal:</p>
 <p><span id="eq-m-s-inner-product"><span class="math display">\[
 \begin{align}
@@ -1738,10 +1730,10 @@ LeCun, Yann, Corinna Cortes, and Christopher J. C. Burges. 2005. <span>“The MN
 <li id="fn7"><p>See <span class="citation" data-cites="wiki_one-hot"><span>“One-Hot | Wikipedia”</span> (<a href="references.html#ref-wiki_one-hot" role="doc-biblioref">2025</a>)</span> and <span class="citation" data-cites="wiki_categorical_variable"><span>“Categorical Variable | Wikipedia”</span> (<a href="references.html#ref-wiki_categorical_variable" role="doc-biblioref">2025</a>)</span>.<a href="#fnref7" class="footnote-back" role="doc-backlink">↩</a></p></li>
 <li id="fn8"><p>The inner product of vectors <span class="math inline">\(x, y \in \mathcal{V}\)</span> has alternative notations, including <span class="math inline">\(x \boldsymbol\cdot y\)</span>, <span class="math inline">\(\left &lt; x, y \right &gt;\)</span>, and <span class="math inline">\(x^\top y\)</span>.<a href="#fnref8" class="footnote-back" role="doc-backlink">↩</a></p></li>
 <li id="fn9"><p>Matrix <span class="math inline">\(X\)</span> on the right side of <a href="#eq-generic-lm" class="quarto-xref">Equation&nbsp;<span>6.19</span></a> is called a <em>feature matrix</em> that may contain original data columns (other than the response or labeling variable) and may also contain columns that are functions of the data or of other information. A data matrix is model-agnostic, whereas a feature matrix is constructed to support a model of some form.<a href="#fnref9" class="footnote-back" role="doc-backlink">↩</a></p></li>
-<li id="fn10"><p>See <span class="citation" data-cites="wiki_Hamming_distance"><span>“Hamming Distance | Wikipedia”</span> (<a href="references.html#ref-wiki_Hamming_distance" role="doc-biblioref">2025</a>)</span> and <span class="citation" data-cites="wiki_Levenshtein_distance"><span>“Levenshtein Distance | Wikipedia”</span> (<a href="references.html#ref-wiki_Levenshtein_distance" role="doc-biblioref">2025</a>)</span>.<a href="#fnref10" class="footnote-back" role="doc-backlink">↩</a></p></li>
-<li id="fn11"><p>The residual son’s height is the error term in the regression formula. In the figure, residuals are color-coded according to their sign: black if positive and red otherwise.<a href="#fnref11" class="footnote-back" role="doc-backlink">↩</a></p></li>
-<li id="fn12"><p>The regression plane qualifies as a linear manifold, mathematically speaking.<a href="#fnref12" class="footnote-back" role="doc-backlink">↩</a></p></li>
-<li id="fn13"><p>The terms <span class="math inline">\(n-\)</span>dimensional space and <span class="math inline">\(n-\)</span>space are shorthand for “an <span class="math inline">\(n-\)</span>dimensional vector space <span class="math inline">\(\mathcal{V}\)</span> over the field <span class="math inline">\(\mathbb{R}\)</span> of real numbers”. Similarly, the term <span class="math inline">\(n-\)</span>vector means a vector <span class="math inline">\(v \in \mathcal{V}\)</span>. Once a set of basis vectors is identified in <span class="math inline">\(\mathcal{V}\)</span>, any <span class="math inline">\(v \in \mathcal{V}\)</span> can be identified by its coordinates with respect to the given basis. An identified basis of <span class="math inline">\(n\)</span> vectors gives an isomorphism from <span class="math inline">\(\mathcal{V}\)</span> to <span class="math inline">\(\mathbb{R}^n\)</span>. Data are often collected and presented in the form of a data matrix, where a column of numeric values in <span class="math inline">\(n\)</span> successive rows provides an automatic representation as a vector in <span class="math inline">\(\mathbb{R}^n\)</span>. In the data set of family heights, for example, each row of data corresponds to a distinct family, and a column vector, the mother’s height for example, is represented as <span class="math inline">\(m_\bullet = (m_1, \ldots, m_n) \in \mathbb{R}^n\)</span>, where <span class="math inline">\(m_i\)</span> refers to the height in inches of the mother in family <span class="math inline">\(i\)</span>.<a href="#fnref13" class="footnote-back" role="doc-backlink">↩</a></p></li>
+<li id="fn10"><p>There are various notations for the subspace spanned by the columns of matrix <span class="math inline">\(X_{\bullet, \bullet}\)</span> including <span class="math inline">\(\mathcal{C}(X_{\bullet, \bullet})\)</span>, <span class="math inline">\(\mathcal{Im}(X_{\bullet, \bullet})\)</span> (for the <em>image</em> of <span class="math inline">\(X_{\bullet, \bullet}\)</span>), and <span class="math inline">\(\mathcal{R}(X_{\bullet, \bullet})\)</span> (for the <em>range</em> of <span class="math inline">\(X_{\bullet, \bullet}\)</span>).<a href="#fnref10" class="footnote-back" role="doc-backlink">↩</a></p></li>
+<li id="fn11"><p>See <span class="citation" data-cites="wiki_Hamming_distance"><span>“Hamming Distance | Wikipedia”</span> (<a href="references.html#ref-wiki_Hamming_distance" role="doc-biblioref">2025</a>)</span> and <span class="citation" data-cites="wiki_Levenshtein_distance"><span>“Levenshtein Distance | Wikipedia”</span> (<a href="references.html#ref-wiki_Levenshtein_distance" role="doc-biblioref">2025</a>)</span>.<a href="#fnref11" class="footnote-back" role="doc-backlink">↩</a></p></li>
+<li id="fn12"><p>The residual son’s height is the error term in the regression formula. In the figure, residuals are color-coded according to their sign: black if positive and red otherwise.<a href="#fnref12" class="footnote-back" role="doc-backlink">↩</a></p></li>
+<li id="fn13"><p>The regression plane qualifies as a linear manifold, mathematically speaking.<a href="#fnref13" class="footnote-back" role="doc-backlink">↩</a></p></li>
 <li id="fn14"><p>The cited value of the correlation coefficient <span class="math inline">\(r_{m, s}\)</span> pertains to the random sample of size 20 created to facilitate a detailed view of regression residuals. Among all 179 families whose oldest child was a son, we have <span class="math inline">\(r_{m, s} \approx 0.3\)</span>.<a href="#fnref14" class="footnote-back" role="doc-backlink">↩</a></p></li>
 </ol>
 </section>
